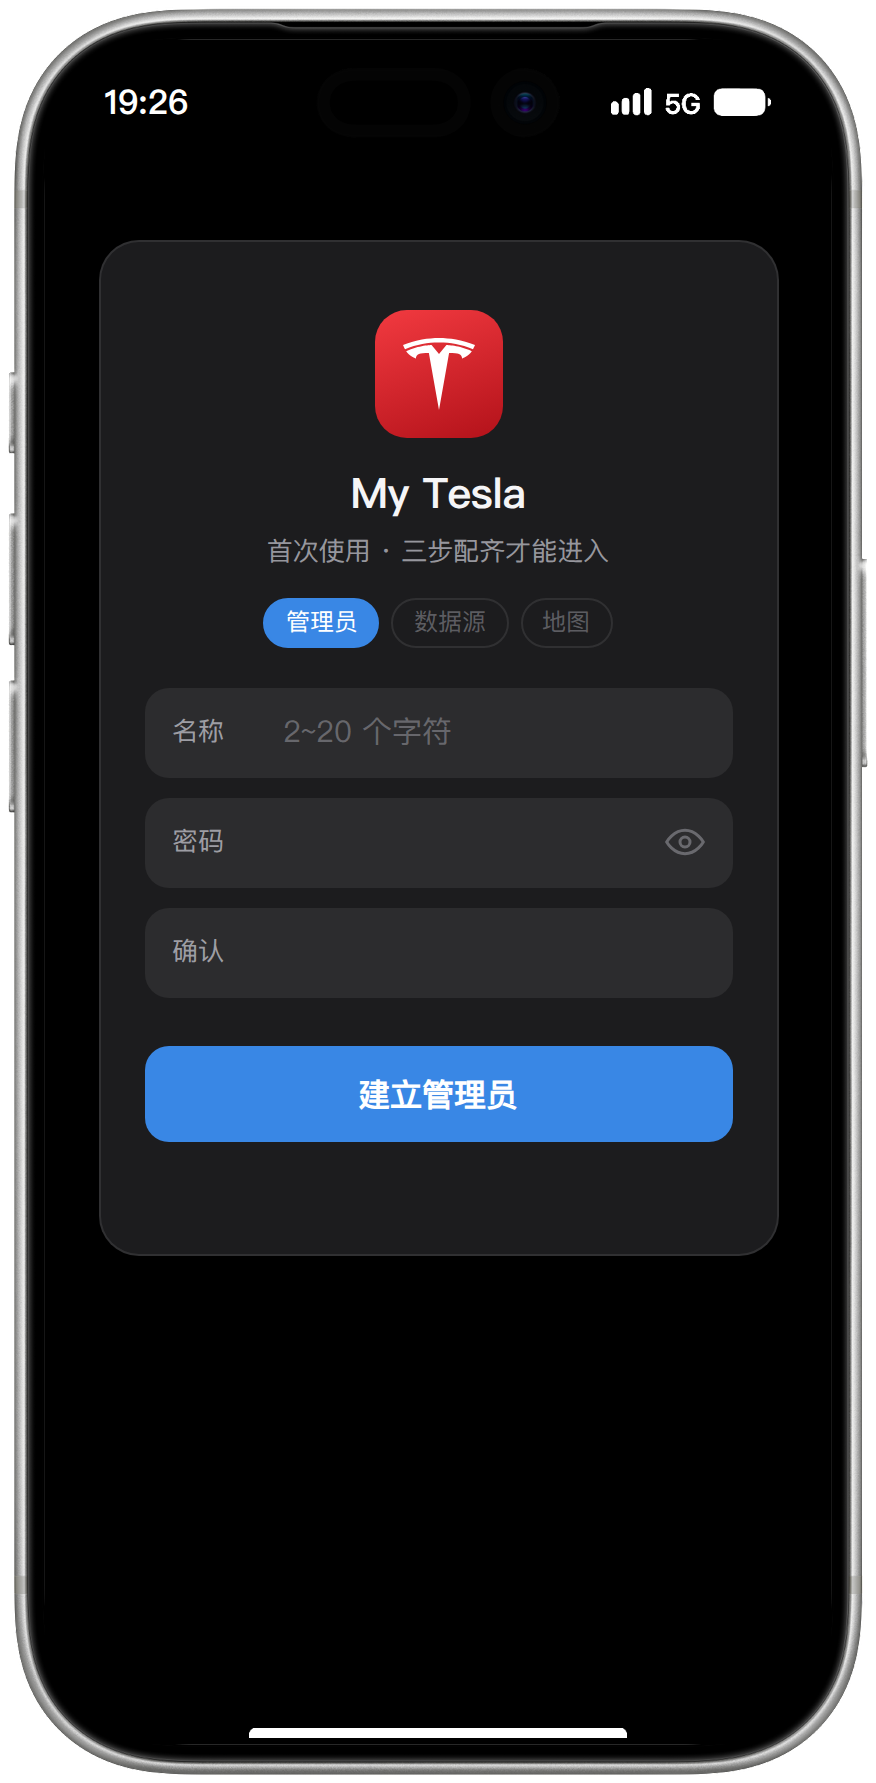
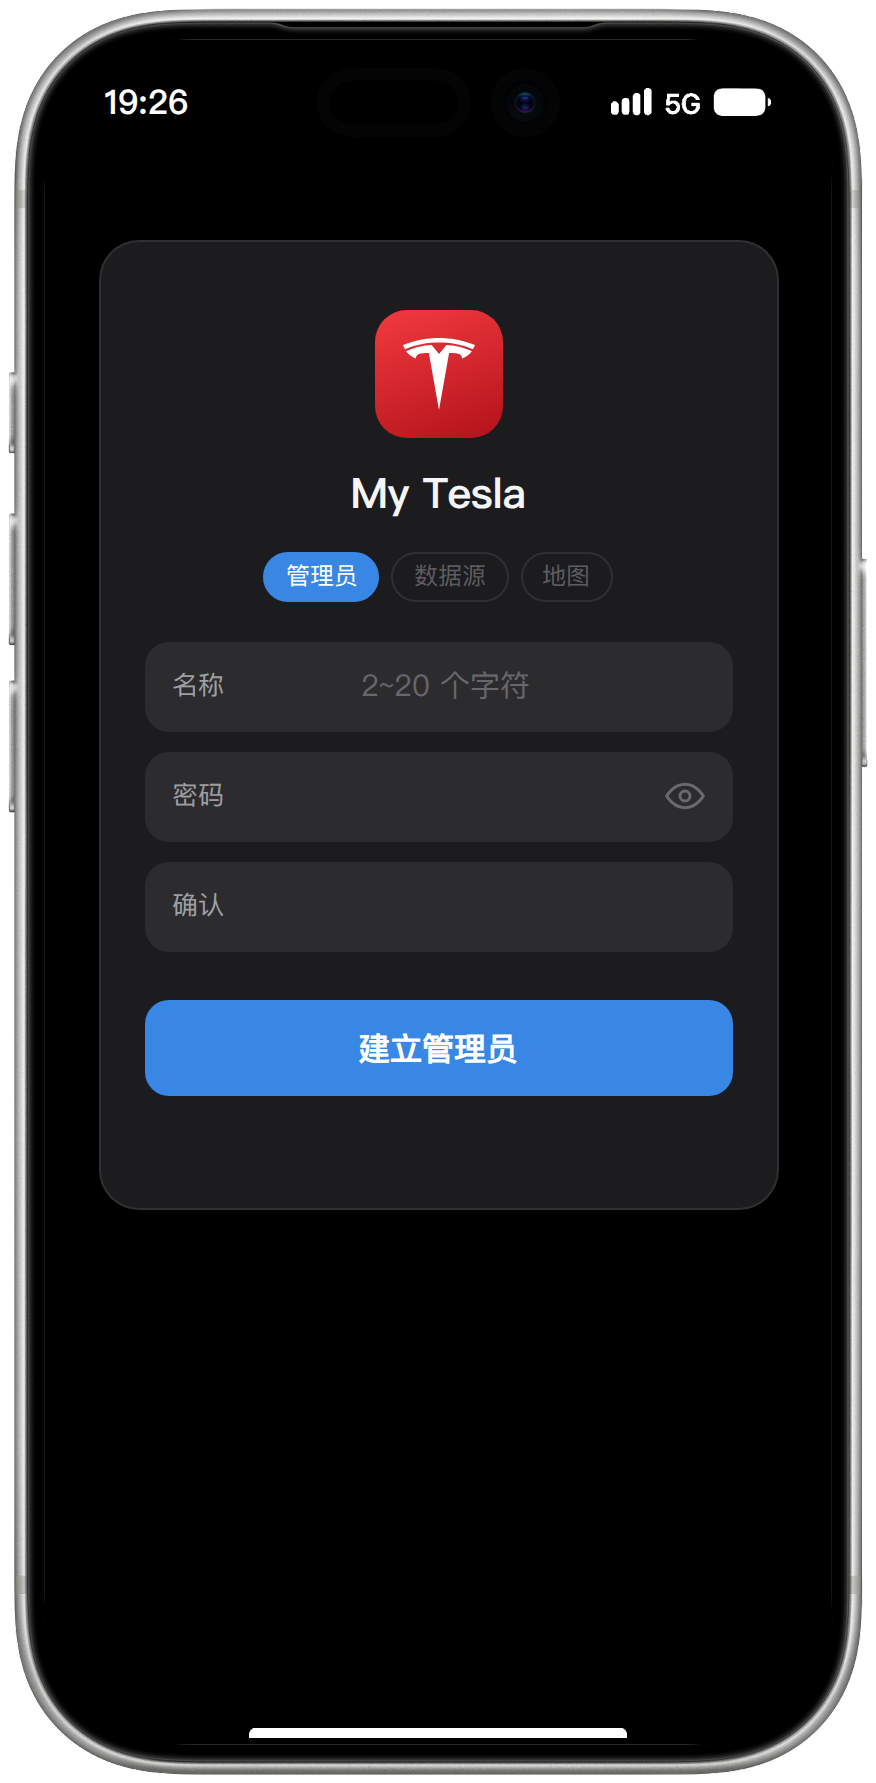
向导第三步一次收齐两把高德 Key: 地图 Key(JS)+安全码之外新增「Web 服务 Key」(道路拟合用, 可留空后补, 预填掩码与提交同走设置接口, 标签列 3.5em→6.5em 容新词, 设置页同款叫法), cli 文档串同步; 页头「首次使用 · 三步配齐才能进入」副标题退役 (步骤条已说明流程, .steps 顶距 14px 接管间距); setup.js v3 / setup-page.css v4, 截图按新口径重拍 (像素验证: 步骤条净上移 46px = 副标题盒 37 - 补回 14 CSS, 第三步三字段); README 高德段写明两把 Key 的服务平台区别、启

diff --git a/app/home/static/setup.html b/app/home/static/setup.html
@@ -15,7 +15,7 @@
 <link rel="apple-touch-icon" href="/static/apple-touch-icon.png?v=2">
   <link rel="manifest" href="/static/manifest.json">
   <title>初始化 · My Tesla</title>
-<link rel="stylesheet" href="/static/css/setup-page.css?v=3">
+<link rel="stylesheet" href="/static/css/setup-page.css?v=4">
 </head>
 <body data-done="/tesla">
 <div class="card" id="card">
@@ -27,7 +27,6 @@
     </svg>
   </div>
   <h1>My Tesla</h1>
-  <div class="sub">首次使用 · 三步配齐才能进入</div>
   <ol class="steps" id="steps">
     <li>管理员</li><li>数据源</li><li>地图</li>
   </ol>
@@ -94,16 +93,23 @@
     <div class="err"></div>
   </form>
   <form id="form3" hidden>
-    <p class="hint">高德开放平台的应用 Key 与安全码 (地图显示用); 足迹道路
-    拟合的 Web 服务 Key 在 设置 → 地图设置 里另配。</p>
+    <p class="hint">高德开放平台的两把 Key (个人开发者免费; 同一应用下可建
+    多把, 各选一个服务平台): 地图 Key 选「Web端(JS API)」, 安全码与它配套;
+    Web 服务 Key 选「Web服务」, 供足迹道路拟合, 可留空稍后在 设置 →
+    地图设置 补。</p>
     <div class="field">
-      <label for="amap-key">Key</label>
+      <label for="amap-key">地图 Key</label>
       <input id="amap-key" type="text" autocapitalize="off" autocorrect="off"
              placeholder="未设置" required>
     </div>
     <div class="field">
       <label for="amap-code">安全码</label>
       <input id="amap-code" type="text" autocapitalize="off" autocorrect="off"
+             placeholder="未设置">
+    </div>
+    <div class="field">
+      <label for="amap-web">Web 服务 Key</label>
+      <input id="amap-web" type="text" autocapitalize="off" autocorrect="off"
              placeholder="未设置">
     </div>
     <button class="btn" type="submit">保存并进入应用</button>
@@ -114,6 +120,6 @@
     <p>初始化完成, 正在进入…</p>
   </div>
 </div>
-<script src="/static/setup.js?v=2"></script>
+<script src="/static/setup.js?v=3"></script>
 </body>
 </html>

diff --git a/app/home/static/setup.js b/app/home/static/setup.js
@@ -1,6 +1,6 @@
 // setup.js — 首启引导: 三步全走完才能进应用, 不允许跳过。第一步建管理
 // 员 (注册即登录, 后续接口都带会话); 带数据源/地图步骤的部署 (My Home /
-// My Tesla) 顺路配 TeslaMate 与高德 Key, 一步变体 (My Money / My Music)
+// My Tesla) 顺路配 TeslaMate 与高德两把 Key, 一步变体 (My Money / My Music)
 // 建完即完成。起步步数由 /api/setup-status 的 missing 决定 —— 中途退出
 // 的续走 (管理员已在, 从缺口步接着); 完成跳转读 body 的 data-done;
 // 步骤按 DOM 现状收集, 同一份脚本服务两种页面。
@@ -105,6 +105,8 @@ async function prefillSettings() {
     if (key) key.placeholder = a.key_masked ? `现值 ${a.key_masked}, 留空保持` : "未设置";
     const code = document.getElementById("amap-code");
     if (code) code.placeholder = a.security_code_masked ? `现值 ${a.security_code_masked}, 留空保持` : "未设置";
+    const web = document.getElementById("amap-web");
+    if (web) web.placeholder = a.web_key_masked ? `现值 ${a.web_key_masked}, 留空保持` : "未设置";
   } catch (_e) { /* 拉不到现值不挡流程, 空表单照填 */ }
 }
 
@@ -135,7 +137,7 @@ if (forms[1]) {
   });
 }
 
-// 第三步 (有则存在): 高德 Key + 安全码 (留空=保持现值)
+// 第三步 (有则存在): 高德两把 Key + 安全码 (留空=保持现值)
 if (forms[2]) {
   forms[2].addEventListener("submit", async e => {
     e.preventDefault();
@@ -148,6 +150,7 @@ if (forms[2]) {
         headers: { "Content-Type": "application/json" },
         body: JSON.stringify({
           amap_key: v("amap-key"), amap_security_code: v("amap-code"),
+          amap_web_key: v("amap-web"),
         }),
       });
       if (r.ok) { advance(2); return; }

diff --git a/app/home/static/css/setup-page.css b/app/home/static/css/setup-page.css
@@ -39,10 +39,9 @@ body {
 }
 .icon svg { width: 36px; height: 36px; display: block; }
 h1 { font-size: 21px; font-weight: 700; letter-spacing: -.3px; }
-.sub { font-size: 13px; color: var(--ink-2); margin: 5px 0 14px; }
 .steps {
   display: flex; justify-content: center; gap: 6px; list-style: none;
-  margin: 0 0 20px;
+  margin: 14px 0 20px;   /* 顶距接管: 副标题退役后 h1 与步骤条的间距在此兜 */
 }
 .steps li {
   font-size: 12px; color: var(--ink-3); padding: 3px 10px;
@@ -55,7 +54,9 @@ h1 { font-size: 21px; font-weight: 700; letter-spacing: -.3px; }
   background: var(--surface-2); border-radius: 12px;
   padding: 12px 14px; margin-bottom: 10px; text-align: left;
 }
-.field label { font-size: 13px; color: var(--ink-2); flex: none; width: 3.5em; }
+.field label {
+  font-size: 13px; color: var(--ink-2); flex: none; width: 6.5em;   /* 容「Web 服务 Key」 */
+}
 .field input {
   flex: 1; min-width: 0; border: 0; outline: 0; background: none;
   color: var(--ink-1); font: inherit; caret-color: #3987e5;

diff --git a/tests/test_changelog.py b/tests/test_changelog.py
@@ -17,6 +17,7 @@ def test_versions_newest_first_and_wellformed():
     """新→老; 每版字段齐全, 文案是用户视角的一句话 (不夹技术黑话)。"""
     vs = changelog.entries()
     assert [v.version for v in vs] == [
+        "3.7.3",
         "3.7.2",
         "3.7.1",
         "3.7.0",
@@ -49,7 +50,7 @@ def test_version_data_lives_in_json_dir():
     里, app/ 下不再有 changelog_versions_*.py —— 新批次 = 加一个 json。"""
     data_dir = Path(changelog.__file__).parent / "changelog_data"
     files = sorted(data_dir.glob("*.json"))
-    assert len(files) == 27    # 拆分时代 23 批 + 3.6.0 ~ 3.7.2 四批
+    assert len(files) == 28    # 拆分时代 23 批 + 3.6.0 ~ 3.7.3 五批
     assert not list((data_dir.parent).glob("changelog_versions_*.py"))
     loaded = {v.version for v in changelog.entries()}
     for f in files:                               # 每个文件都被装载 (无孤儿)
@@ -67,7 +68,8 @@ def test_changelog_entries_endpoint(auth):
         assert e["items"] == [{"kind": it.kind, "text": it.text}
                               for it in v.items]
     # 头条是主打: 新功能或修的主 bug; 纯打磨的批次整版都是改进, 不硬凑
-    # (3.7.2 整版都是改进「向导三步顶对齐 + 图标统一成 T 标」;
+    # (3.7.3 整版都是改进「向导第三步一次配齐两把高德 Key」;
+    # 3.7.2 整版都是改进「向导三步顶对齐 + 图标统一成 T 标」;
     # 3.7.1 头条是修复「跨机新装起不来」+ 改进「写明 TeslaMate 参数去哪儿抄」;
     # 3.7.0 头条是新增「首启门: 三步配齐才能进应用」;
     # 3.6.0 头条是新增「启动配置走命令行参数」;

diff --git a/tests/test_setup_wizard.py b/tests/test_setup_wizard.py
@@ -194,13 +194,23 @@ def test_setup_page_wiring(  # pylint: disable=redefined-outer-name
     assert re.search(r'id="amap-key"[^>]*required', html)
     # 第三步是收尾步: 按钮写明存完即进应用 (2026-10-09 用户口径)
     assert "保存并进入应用" in html
+    # 第三步两把高德 Key (2026-10-09): 地图 Key 必填, Web 服务 Key (道路
+    # 拟合) 同场收、可留空后补; 顶部「首次使用」副标题同日退役 (步骤条
+    # 已说明流程, 页头不重复)
+    assert '<label for="amap-key">地图 Key</label>' in html
+    assert '<label for="amap-web">Web 服务 Key</label>' in html
+    web_input = re.search(r'<input id="amap-web"[^>]*>', html)
+    assert web_input and "required" not in web_input.group(0)
+    assert "三步配齐才能进入" not in html
     # 取参指引 (2026-10-09 用户点名「会用的必然装了 TeslaMate, 重要的是
     # 五个参数去哪儿抄」): 第二步的提示直接写明抄哪儿
     assert "POSTGRES_PASSWORD" in html
     assert "docker-compose.yml" in html
-    js = client.get("/static/setup.js?v=2").text
+    js = client.get("/static/setup.js?v=3").text
     assert '"/api/setup-admin"' in js
     assert '"/tesla/api/settings"' in js
+    assert 'amap_web_key: v("amap-web")' in js   # Web 服务 Key 随同提交
+    assert "web_key_masked" in js                # 预填时给现值掩码
     assert 'data-done' in js and "dataset.done" in js
     assert ".skip" not in js and "setup-status" in js
     assert 'missing.includes("account")' in js

diff --git a/app/cli.py b/app/cli.py
@@ -9,8 +9,8 @@
 该端口走 TLS (Let's Encrypt 证书由 WSL 上的 acme.sh 签发续期), 没证书
 走明文; --http 可强制明文 (忽略证书, 调试用)。
 
-账号与高德 Key 不走参数: 空账号库首启由登录页自动引去 /setup 引导注册
-管理员, 高德 Key 在设置页「地图设置」里保存 (存自有库)。
+账号与高德 Key 不走参数: 空账号库首启由登录页自动引去 /setup 引导 (顺路
+配 TeslaMate 与高德两把 Key), 之后在设置页「地图设置」里改 (存自有库)。
 
 My Home 组合部署不走本模块 —— 账号归启动方: 外层装配用组合仓自己的
 门厅层, 本模块只服务本仓独立启动 (自带账号层)。
